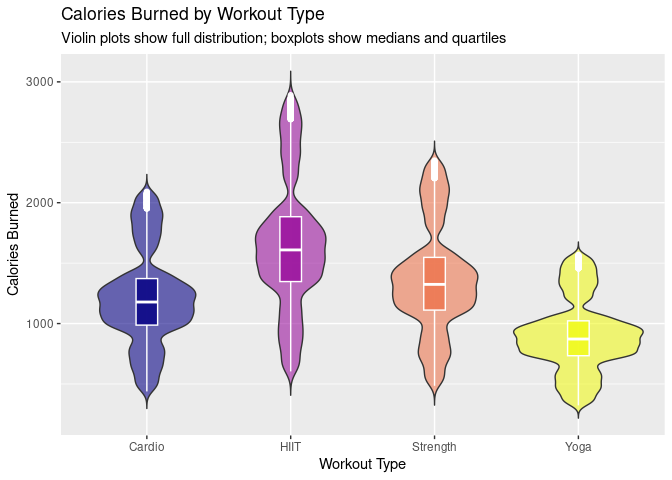
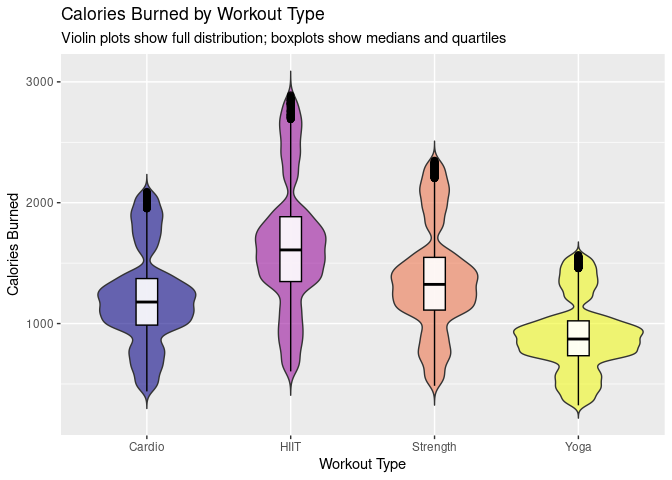
Plot 1 done

diff --git a/proposal/proposal.md b/proposal/proposal.md
@@ -5,6 +5,7 @@ ARHF
 ``` r
 library(tidyverse)
 library(broom)
+library(hexbin)
 ## Add any additional packages you are using here
 ```
 
@@ -207,7 +208,11 @@ questions.
 ``` r
 ggplot(Final_data, aes(x = Workout_Type, y = Calories_Burned, fill = Workout_Type)) +
   geom_violin(alpha = 0.6, trim = FALSE) +
-  geom_boxplot(width = 0.15, color = "white", alpha = 0.9) +
+  geom_boxplot(width = 0.15,
+               color = "black",     
+               fill = "white",  
+               outlier.color = "black", 
+               outlier.size = 2,alpha = 0.9) +
   scale_fill_viridis_d(option = "plasma") +
   labs(
     title = "Calories Burned by Workout Type",
@@ -218,7 +223,7 @@ ggplot(Final_data, aes(x = Workout_Type, y = Calories_Burned, fill = Workout_Typ
   theme(legend.position = "none")
 ```
 
-![](proposal_files/figure-gfm/violin-and-box-1.png)<!-- -->
+<img src="proposal_files/figure-gfm/violin-and-box-1.png" alt=" Violin and boxplots comparing calories burned for Cardio, HIIT, Strength, and Yoga. The y axis shows calories burned and the x axis shows workout type. This chart highlights differences in intensity, with HIIT showing the highest values with a longer violin plot showing variation across values and the Yoga being the lowest intensity workout with a narrow violin plot showing less variation across data."  />
 
 ``` r
 ggsave("/cloud/project/workouttype.pdf")
@@ -231,3 +236,45 @@ ggsave("/cloud/project/workouttype.png")
 ```
 
     ## Saving 7 x 5 in image
+
+Q. Plot2
+
+``` r
+ggplot(Final_data, aes(x = `Weight (kg)`, y = Max_BPM, color = Workout_Type )) +
+  geom_smooth(se = FALSE, method = "loess", size = 1.8) +
+  scale_color_viridis_d(option = "plasma") +
+  labs(
+    title = "Weight and Max Heart Rate",
+    subtitle = "Shows whether body weight affects intensity",
+    x = "Weight (Kg)",
+    y = "Max Heart BPM"
+  ) +
+  facet_wrap(~Gender) +
+  theme_minimal(base_size = 13)
+```
+
+    ## Warning: Using `size` aesthetic for lines was deprecated in ggplot2 3.4.0.
+    ## ℹ Please use `linewidth` instead.
+    ## This warning is displayed once every 8 hours.
+    ## Call `lifecycle::last_lifecycle_warnings()` to see where this warning was
+    ## generated.
+
+    ## `geom_smooth()` using formula = 'y ~ x'
+
+![](proposal_files/figure-gfm/-%20plot2-1.png)<!-- -->
+
+``` r
+ggsave("/cloud/project/maxBPM.pdf")
+```
+
+    ## Saving 7 x 5 in image
+    ## `geom_smooth()` using formula = 'y ~ x'
+
+``` r
+ggsave("/cloud/project/maxBPM.png")
+```
+
+    ## Saving 7 x 5 in image
+    ## `geom_smooth()` using formula = 'y ~ x'
+
+Q. Plot3
